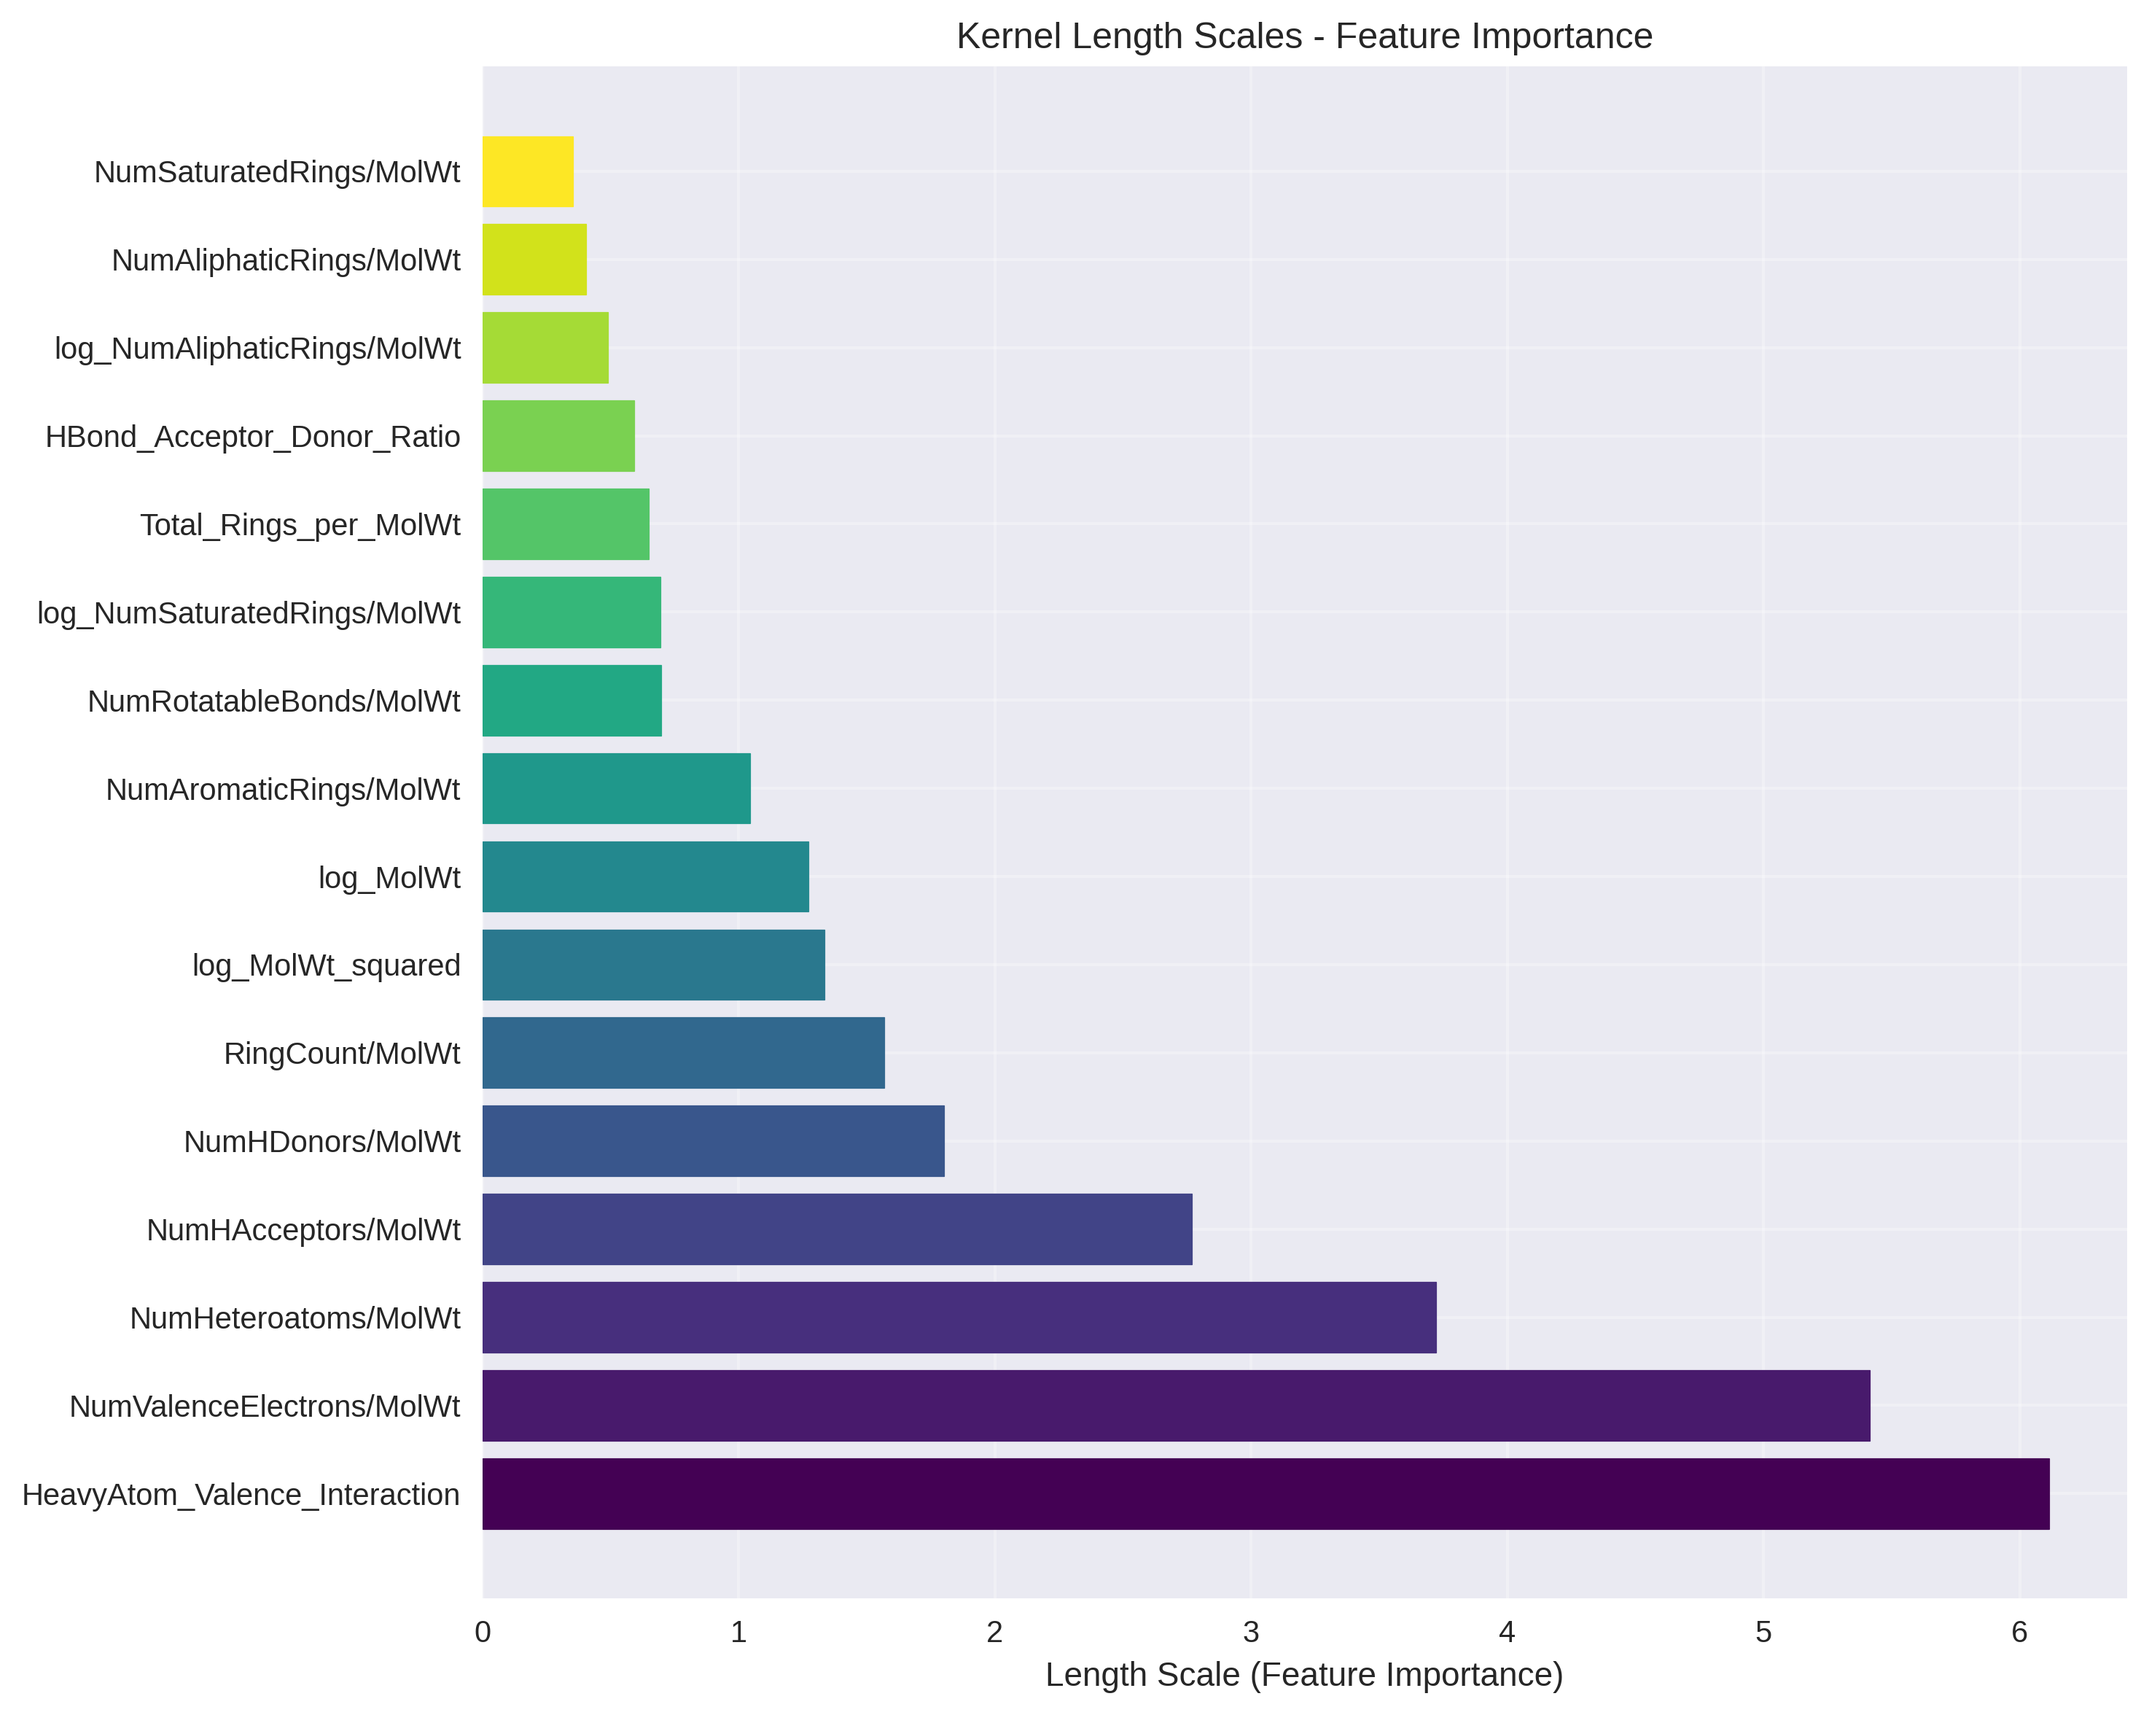
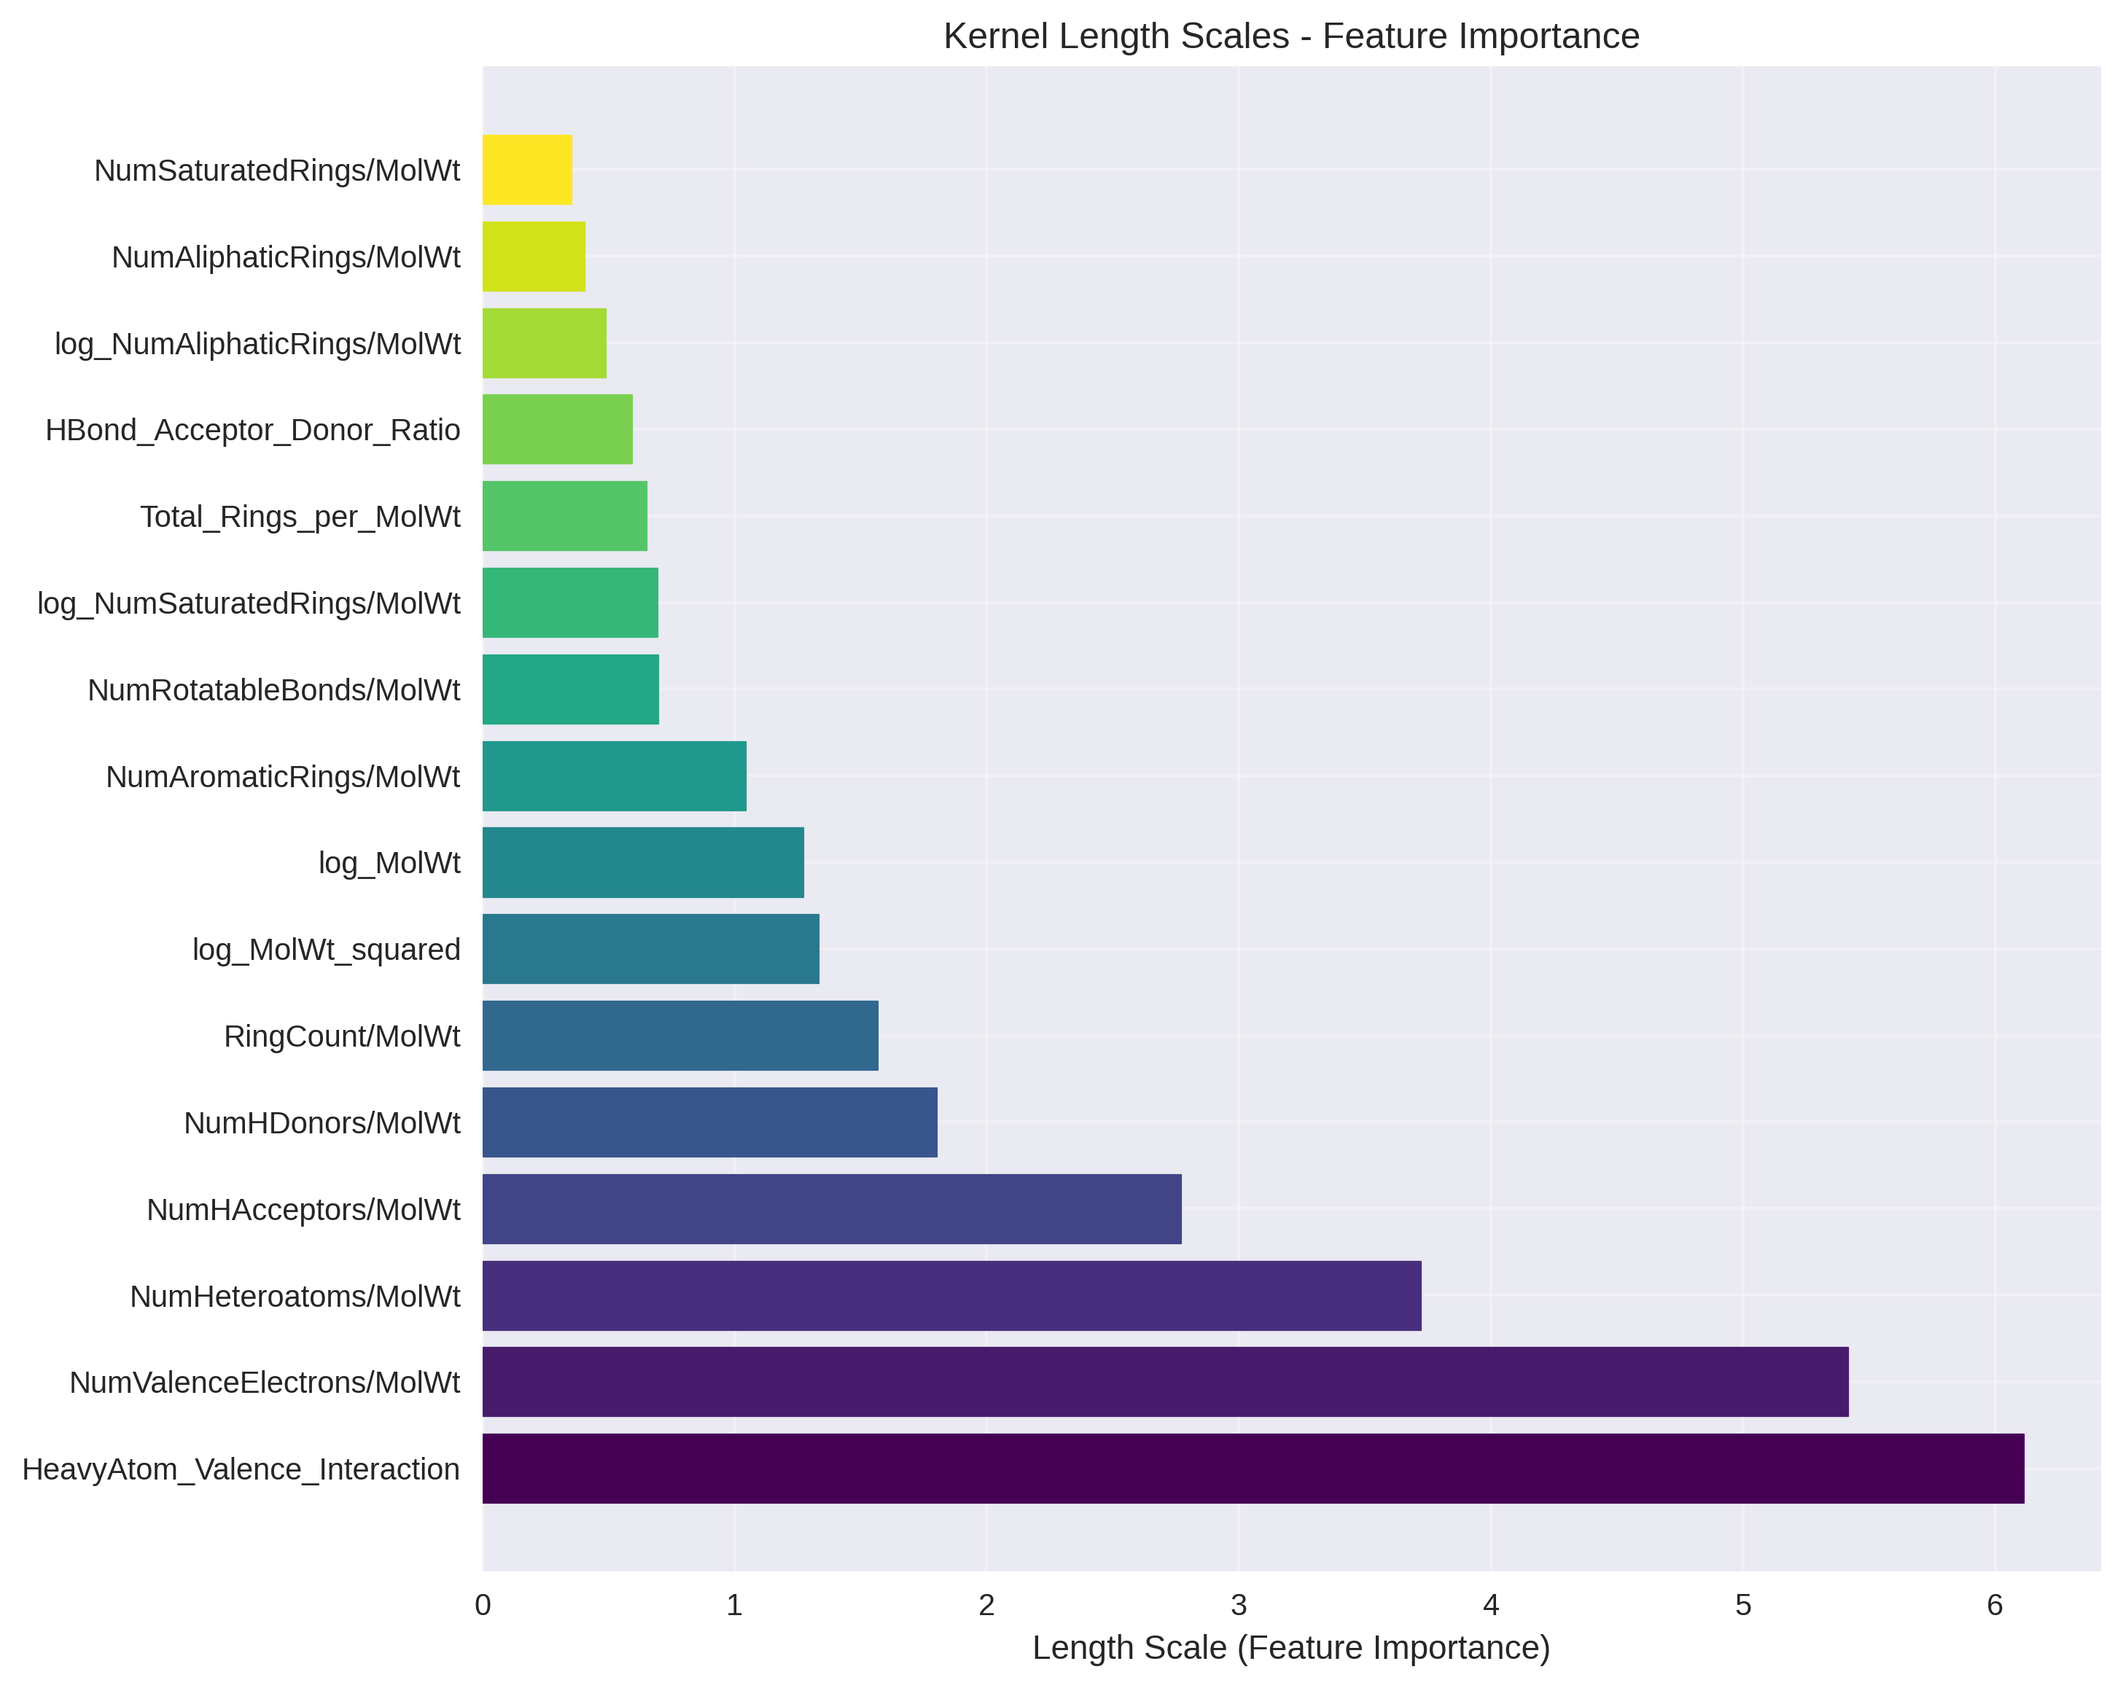
pics

diff --git a/main.py b/main.py
@@ -18,7 +18,7 @@ from src.kernels import configure_parallel_settings
 plt.style.use('seaborn-v0_8')
 sns.set_palette("husl")
 plt.rcParams['figure.figsize'] = (12, 8)
-plt.rcParams['font.size'] = 12
+plt.rcParams['font.size'] = 16
 
 CONFIG_PATH = "config/solubility_gp.ini"
 SIGMA_PATH = "config/solubility_sigmas.pkl"
@@ -341,7 +341,7 @@ def learning_evolution(X, y, feature_names, config, sigmas, full_X, n_init=1, n_
         ax2 = axes[1]
         ax2.plot(np.arange(1, step+2), mean_uncertainties, '-o', color='purple')
         ax2.set_xlabel('Learning Step')
-        ax2.set_ylabel('Mean Predictive Uncertainty')
+        ax2.set_ylabel('Mean Predictive Variance')
         ax2.set_title('Uncertainty Reduction')
         ax2.set_xlim(1, n_steps)
         ax2.set_ylim(unc_ylim)

diff --git a/README.md b/README.md
@@ -21,7 +21,7 @@ Run:
 bash setup/auto.sh
 ```
 
-NOTE: This will create a conda environment for the Python dependencies called 'GP_sol'. The terminal multiplexer 'tmux' will also be installed in GP_sol - which is my personall preferred method of running long programs.
+NOTE: This will create a conda environment for the Python dependencies called 'GP_sol'. The terminal multiplexer 'tmux' will also be installed in GP_sol, which is my personally preferred method of running long programs.
 
 ## Scripts
 
